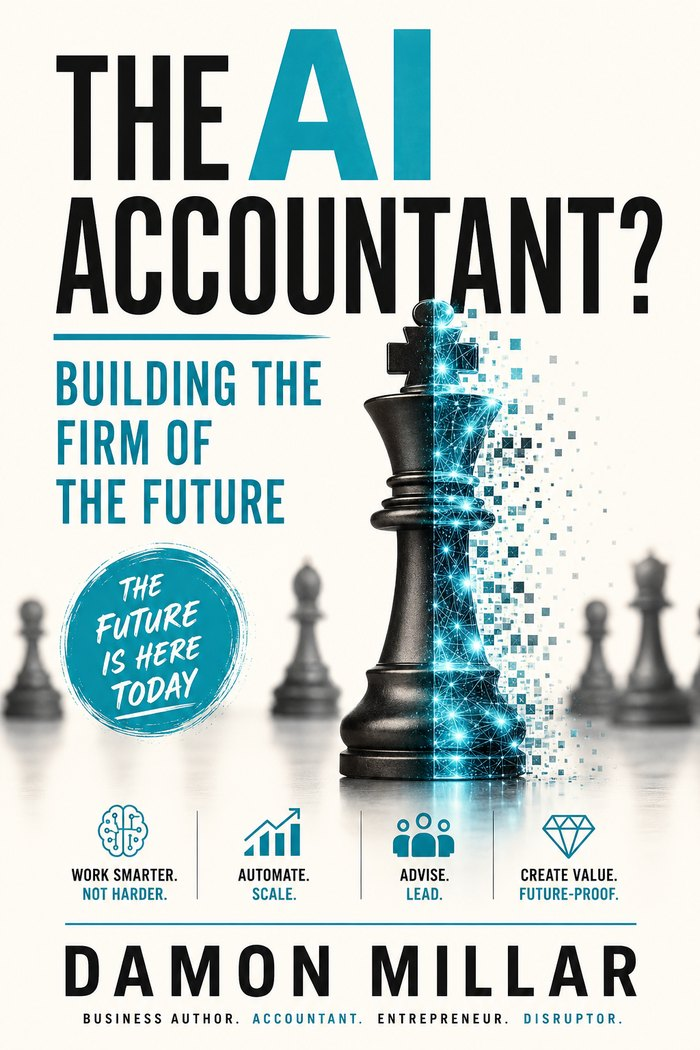
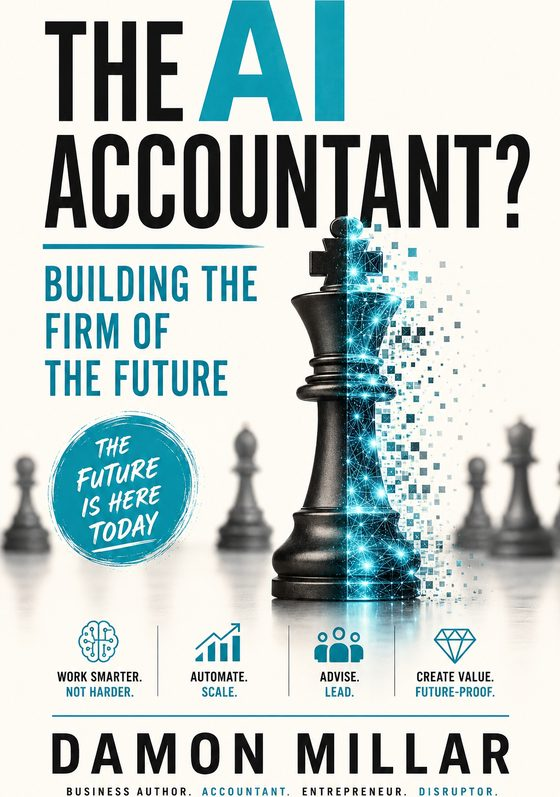
Books: flush-cut the three featured covers, add keyline to rows
Business DNA recropped from the detected montage rect, Artificially
Intelligent! swapped from the white-background 3D stack render to its
flat front cover, and the AI Accountant cover trimmed of hidden top
and bottom padding.

Claude-Session: https://claude.ai/code/session_01VDJ3rS7Kyzw8mwsZ7D6f7f

Changed region(s): [[0.0, 0.0, 1.0, 1.0], [0.5464, 0.0, 0.6375, 0.0301], [0.8804, 0.5721, 0.9107, 0.6023]]

diff --git a/src/pages/AboutPage.jsx b/src/pages/AboutPage.jsx
@@ -95,7 +95,7 @@ function BookRow({ book, flip }) {
           src={withBase(book.cover)}
           alt={book.alt}
           loading="lazy"
-          className="mx-auto w-full max-w-[240px] shadow-[0_24px_48px_rgba(26,26,24,0.18)]"
+          className="mx-auto w-full max-w-[240px] shadow-[0_24px_48px_rgba(26,26,24,0.18)] ring-1 ring-line/70"
         />
       </div>
       <div className={`col-span-12 sm:col-span-8 lg:col-span-7 ${flip ? 'sm:order-1' : 'lg:col-start-5'}`}>
